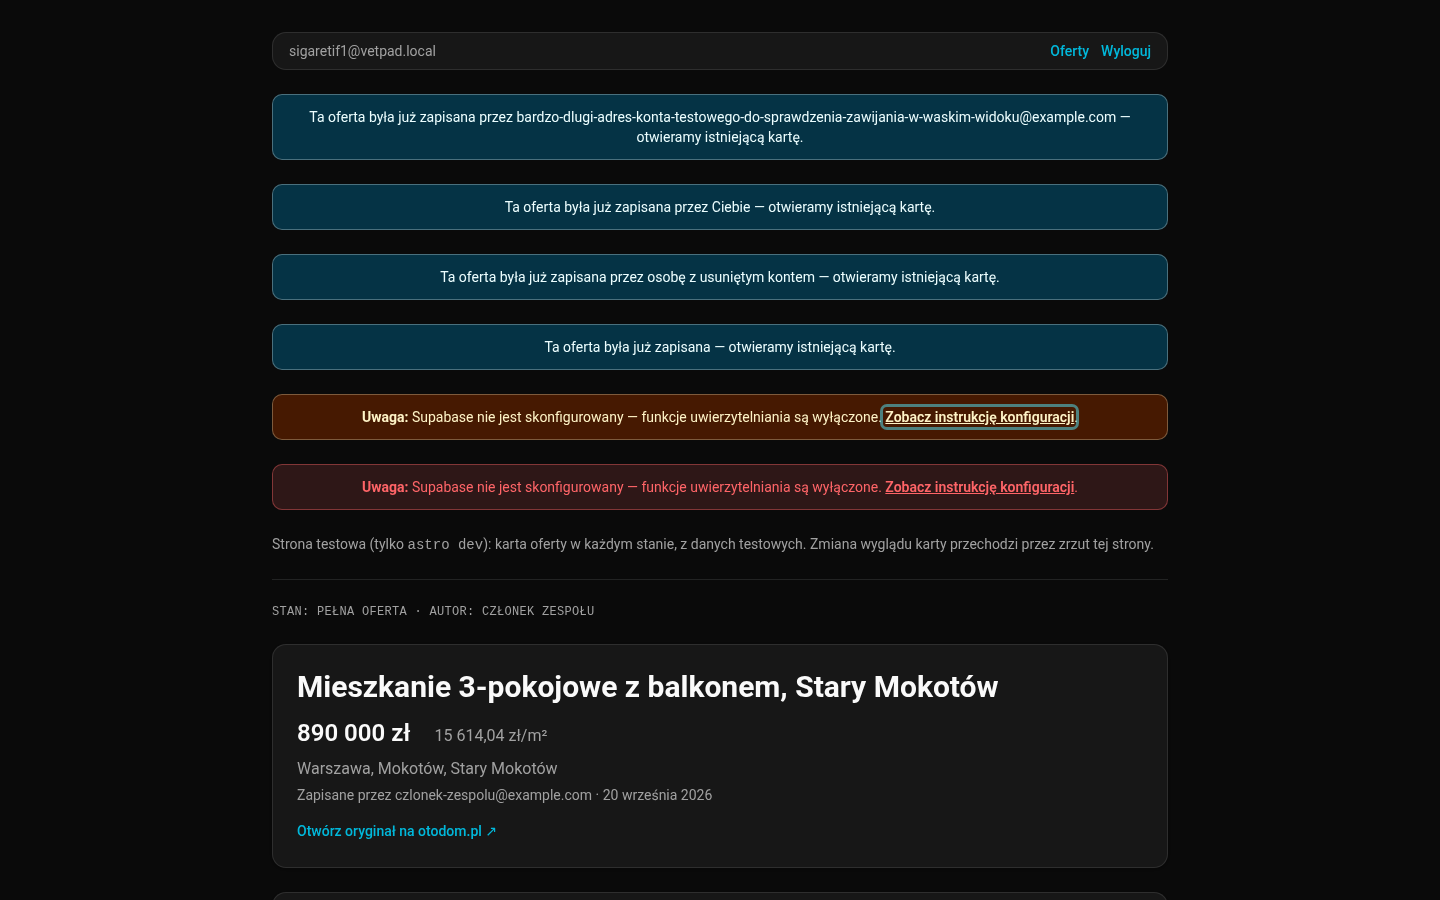
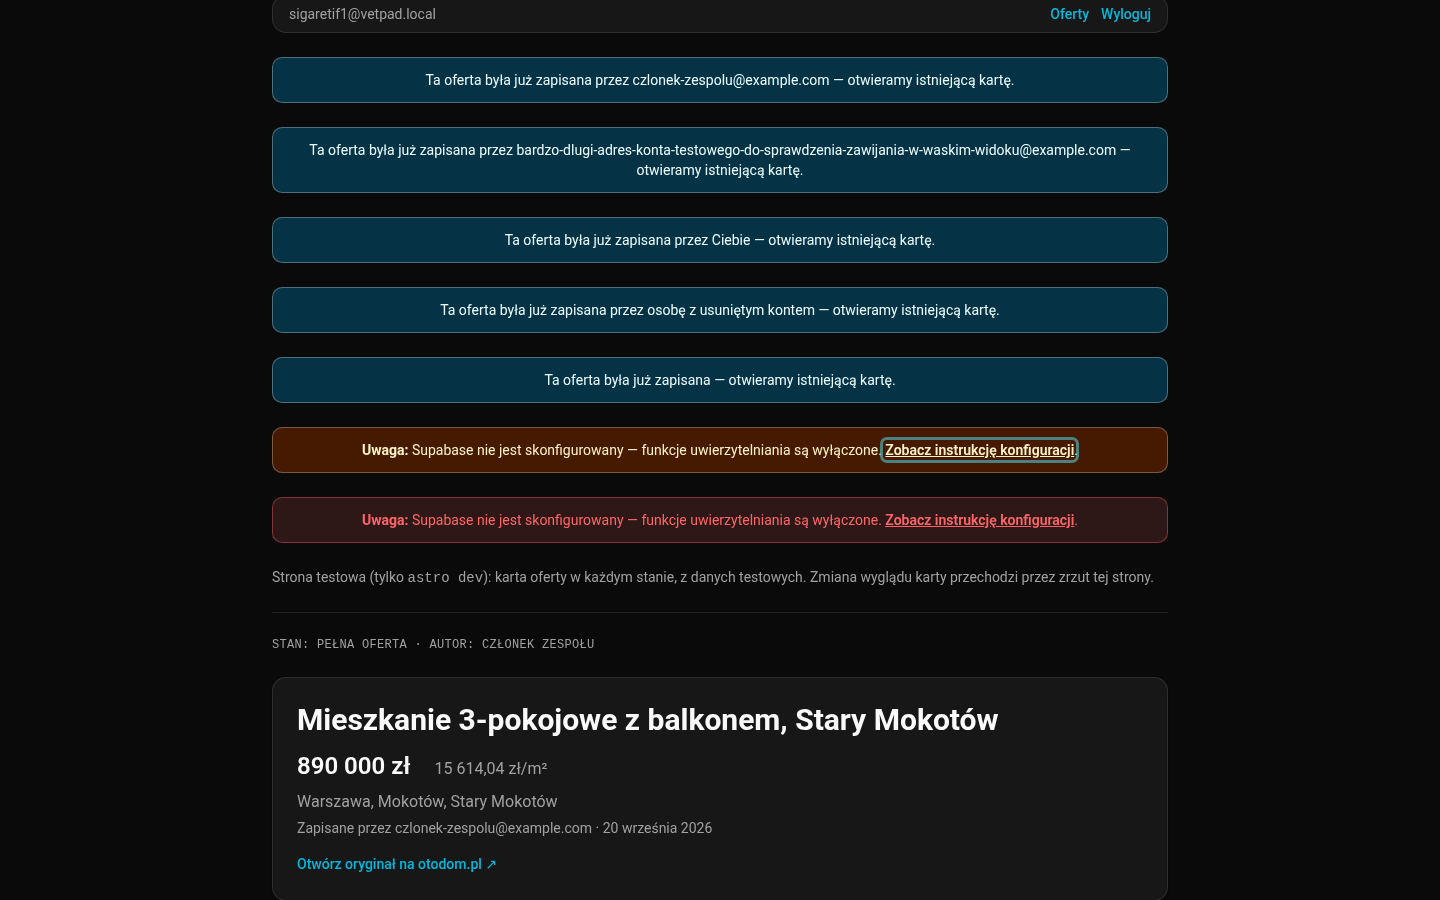
Extract saverName to shared utility and eliminate duplication

Changed region(s): [[0.1875, 0.0, 0.8125, 0.6844], [0.1875, 0.7467, 0.6875, 0.9644]]

diff --git a/src/lib/members.ts b/src/lib/members.ts
@@ -17,6 +17,10 @@ export type Saver = { kind: "self" } | { kind: "member"; email: string } | { kin
 /**
  * Who saved the offer, as the viewer should read it. `createdBy` comes from the offer row,
  * never from the URL. Never throws: any failure is `unknown`, so the card keeps rendering.
+ *
+ * One author, one query. A view naming many authors (S-05's notes) reads them in one
+ * `.in("id", ids)` instead of calling this per row: `offers.created_by` references auth.users,
+ * not `members`, so PostgREST cannot embed the name in the offer or note query.
  */
 export async function resolveSaver(
   supabase: SupabaseClient | null,
@@ -33,5 +37,26 @@ export async function resolveSaver(
     return typeof email === "string" && email.trim() !== "" ? { kind: "member", email } : { kind: "unknown" };
   } catch {
     return { kind: "unknown" };
+  }
+}
+
+/**
+ * Who to name after „przez", in the accusative the notice and the card's author line both use,
+ * or `null` when the author could not be established — `unknown` names nobody.
+ */
+export function saverName(saver: Saver): string | null {
+  switch (saver.kind) {
+    case "member":
+      return saver.email;
+    case "self":
+      return "Ciebie";
+    case "deleted":
+      return "osobę z usuniętym kontem";
+    case "unknown":
+      return null;
+    default: {
+      const unhandled: never = saver;
+      return unhandled;
+    }
   }
 }

diff --git a/src/lib/otodom/labels.ts b/src/lib/otodom/labels.ts
@@ -157,12 +157,6 @@ export const featureLabel = (token: string): string => translate(FEATURE, token)
 const NUMBER = new Intl.NumberFormat("pl-PL", { maximumFractionDigits: 2 });
 const INTEGER = new Intl.NumberFormat("pl-PL", { maximumFractionDigits: 0, useGrouping: false });
 const DATE = new Intl.DateTimeFormat("pl-PL", { day: "numeric", month: "long", year: "numeric", timeZone: "UTC" });
-const TIMESTAMP = new Intl.DateTimeFormat("pl-PL", {
-  day: "numeric",
-  month: "long",
-  year: "numeric",
-  timeZone: "Europe/Warsaw",
-});
 
 export function formatNumber(value: number): string {
   return NUMBER.format(value);
@@ -199,14 +193,4 @@ export function formatArea(value: number): string {
 export function formatDate(value: string): string {
   const parsed = new Date(`${value.slice(0, 10)}T00:00:00Z`);
   return Number.isNaN(parsed.getTime()) ? value : DATE.format(parsed);
-}
-
-/**
- * A `timestamptz` column → „20 września 2026", the day as the team sees it in Poland (not in
- * UTC, which would show the previous day for anything saved just after midnight). An
- * unparseable value literally.
- */
-export function formatTimestamp(value: string): string {
-  const parsed = new Date(value);
-  return Number.isNaN(parsed.getTime()) ? value : TIMESTAMP.format(parsed);
 }

diff --git a/src/lib/format.ts b/src/lib/format.ts
@@ -1,0 +1,19 @@
+// Formatting for the app's own columns (created_at and, later, note and archive dates), as
+// opposed to `@/lib/otodom/labels`, which formats what the listing portal stated.
+
+const TIMESTAMP = new Intl.DateTimeFormat("pl-PL", {
+  day: "numeric",
+  month: "long",
+  year: "numeric",
+  timeZone: "Europe/Warsaw",
+});
+
+/**
+ * A `timestamptz` column → „20 września 2026", the day as the team sees it in Poland (not in
+ * UTC, which would show the previous day for anything saved just after midnight). An
+ * unparseable value literally.
+ */
+export function formatTimestamp(value: string): string {
+  const parsed = new Date(value);
+  return Number.isNaN(parsed.getTime()) ? value : TIMESTAMP.format(parsed);
+}

diff --git a/context/changes/duplicate-listing-notice/reviews/impl-review.md b/context/changes/duplicate-listing-notice/reviews/impl-review.md
@@ -1,0 +1,103 @@
+<!-- IMPL-REVIEW-REPORT -->
+# Implementation Review: Komunikat o duplikacie z autorem zapisu
+
+- **Plan**: context/changes/duplicate-listing-notice/plan.md
+- **Scope**: Full plan
+- **Reviewed phases**: 1, 2, 3
+- **Date**: 2026-09-26
+- **Verdict**: APPROVED
+- **Findings**: 0 critical, 1 warning, 6 observations
+
+Faza 3 przejrzana w całości; jej jedyny otwarty punkt (3.6, sprawdzenie na produkcji) da się wykonać dopiero po wdrożeniu Workera. Świadome odstępstwo zatwierdzone przez użytkownika w trakcie implementacji: „osoba z usuniętym kontem” zamiast „konto usunięte” (PRD i `lessons.md` poprawione razem z UI) — nie jest traktowane jako dryf.
+
+## Verdicts
+
+| Dimension | Verdict |
+|-----------|---------|
+| Plan Adherence | PASS |
+| Scope Discipline | PASS |
+| Safety & Quality | PASS |
+| Architecture | PASS |
+| Pattern Consistency | WARNING |
+| Success Criteria | PASS |
+
+## Findings
+
+### F1 — Przełącznik `savedBy` zduplikowany w banerze i karcie
+
+- **Severity**: ⚠ WARNING
+- **Impact**: 🏃 LOW — quick decision; fix is obvious and narrowly scoped
+- **Dimension**: Pattern Consistency
+- **Location**: src/components/offers/DuplicateNotice.astro:18, src/components/offers/OfferCard.astro:23
+- **Detail**: Dwa identyczne `switch` po `saver.kind`, łącznie z tekstem z PRD („osobę z usuniętym kontem”) i regułą „`unknown` nikogo nie nazywa”. CLAUDE.md każe S-05 i S-10 korzystać z `src/lib/members.ts`, więc następny slice skopiuje przełącznik trzeci raz, a zmiana brzmienia (jak ta dzisiejsza) musi trafić w każdą kopię. Repo ma wzorzec „jedno miejsce na etykietę” (`AuditStatusBadge.astro`).
+- **Fix**: Wyeksportować `saverName(saver: Saver): string | null` (z wyczerpującym `never`) z `src/lib/members.ts` i użyć go w obu komponentach.
+- **Decision**: FIXED — `saverName` w `src/lib/members.ts`, oba komponenty go używają
+
+### F2 — Wyzwalacz e-maila: brak warunku `when` i brak upsertu w gałęzi UPDATE
+
+- **Severity**: 💡 OBSERVATION
+- **Impact**: 🔎 MEDIUM — real tradeoff; pause to reason through it
+- **Dimension**: Safety & Quality
+- **Location**: supabase/migrations/20260926185936_create_members.sql:44, :60
+- **Detail**: `after update of email` odpala się przy każdym UPDATE, który wymienia `email` w SET, także bez zmiany wartości (zbędny zapis). Gałąź UPDATE robi zwykły `update`, więc brakujący wiersz `members` nie odrodzi się przy zmianie e-maila i członek zostanie `unknown` na stałe. Oba przypadki są dziś nieszkodliwe (uzupełnienie + wyzwalacz insert pokrywają każde znane konto). Migracja jest już na hostowanym projekcie, więc poprawka to nowa migracja, nie edycja tej.
+- **Fix A ⭐ Recommended**: Odłożyć — zanotować w follow-upach i dołączyć do najbliższej migracji (np. S-05 albo osobnej zmiany z `revoke execute` na `offers_freeze_created_by`).
+  - Strength: Żadnej dodatkowej migracji ani `db push` teraz; oba przypadki nie mają dziś realnego skutku.
+  - Tradeoff: Znana drobna wada zostaje w schemacie do następnej migracji.
+  - Confidence: HIGH — uzupełnienie i wyzwalacz insert pokrywają każde konto; zweryfikowane w fazie 1.
+  - Blind spot: Nie sprawdzono, czy Supabase Auth kiedykolwiek usuwa i odtwarza konto z tym samym id.
+- **Fix B**: Nowa migracja teraz: `create or replace function` z upsertem w obu gałęziach + odtworzenie wyzwalacza z `when (old.email is distinct from new.email)`.
+  - Strength: Schemat od razu bez znanych wad, zanim S-05/S-10 zaczną z niego korzystać.
+  - Tradeoff: Druga migracja w tym slice'ie i kolejny `db push` za zgodą przed git-land.
+  - Confidence: HIGH — mała, idempotentna zmiana.
+  - Blind spot: None significant.
+- **Decision**: FIXED (Fix B) — migracja `20260926194251_members_sync_upsert_on_email_change.sql`, wypchnięta na hostowany projekt za zgodą
+
+### F3 — Strażnik `saver === null` pokazałby „nie znaleziono” z kodem 200
+
+- **Severity**: 💡 OBSERVATION
+- **Impact**: 🏃 LOW — quick decision; fix is obvious and narrowly scoped
+- **Dimension**: Safety & Quality
+- **Location**: src/pages/offers/[id].astro:43, :54
+- **Detail**: `saver` jest `null`, gdy nie ma oferty, a render sprawdza `offer === null || saver === null`. Strażnik służy tylko zawężeniu typu; gdyby `saver` był kiedyś `null` przy istniejącej ofercie, strona pokazałaby `OfferNotFound` ze statusem 200. Dziś niemożliwe (`resolveSaver` zawsze zwraca wartość).
+- **Fix**: `const saver: Saver = offer ? await resolveSaver(…) : { kind: "unknown" }` i render warunkowany wyłącznie `offer === null`.
+- **Decision**: FIXED — `saver` domyślnie `{ kind: "unknown" }`, render zależny tylko od `offer`
+
+### F4 — Kitchen sink nie ma banera `member` ze zwykłym adresem
+
+- **Severity**: 💡 OBSERVATION
+- **Impact**: 🏃 LOW — quick decision; fix is obvious and narrowly scoped
+- **Dimension**: Plan Adherence
+- **Location**: src/pages/dev/offer-card.astro:55
+- **Detail**: Baner `member` używa `longEmailSaver` (test zawijania), a `memberSaver` nie występuje w żadnym banerze. Macierz 7 stanów nazywa „default” wariantem `member` — typowego banera z krótkim adresem nie widać na zrzucie.
+- **Fix**: Dodać piąty `DuplicateNotice` z `memberSaver` (długi adres zostaje jako test zawijania) i powtórzyć zrzuty `gate` przed commitem.
+- **Decision**: FIXED — piąty `DuplicateNotice` z `memberSaver`; zrzuty `gate` powtórzone
+
+### F5 — Dwa kolejne zapytania na widok karty; uwaga dla S-05
+
+- **Severity**: 💡 OBSERVATION
+- **Impact**: 🏃 LOW — quick decision; fix is obvious and narrowly scoped
+- **Dimension**: Architecture
+- **Location**: src/pages/offers/[id].astro:43
+- **Detail**: Oferta, potem `members` (pomijane dla `self`/`deleted`). Osadzony select jest niemożliwy, bo `offers.created_by` wskazuje na `auth.users`, nie na `members`. Przy trzech członkach bez znaczenia; S-05 doda autora do każdej notatki i musi je pobierać jednym `.in("id", ids)`, nie zapytaniem na notatkę.
+- **Fix**: Bez zmian w kodzie; dopisać uwagę o batchowaniu przy `resolveSaver` w `src/lib/members.ts` (albo zapisać jako lekcję).
+- **Decision**: FIXED — uwaga o batchowaniu w komentarzu `resolveSaver`
+
+### F6 — `formatTimestamp` w module ingestii otodom
+
+- **Severity**: 💡 OBSERVATION
+- **Impact**: 🏃 LOW — quick decision; fix is obvious and narrowly scoped
+- **Dimension**: Architecture
+- **Location**: src/lib/otodom/labels.ts:203
+- **Detail**: Formatuje kolumnę aplikacji (`created_at`), nie dane portalu, a leży w `src/lib/otodom/`. Plan tak to umieścił; S-05/S-10 będą importować daty notatek i archiwizacji z `@/lib/otodom/labels`.
+- **Fix**: Zostawić; przenieść do ogólnego modułu formatowania, gdy S-05 będzie go potrzebować.
+- **Decision**: FIXED (przeniesione teraz) — `formatTimestamp` w nowym `src/lib/format.ts`; `labels.ts` wrócił do stanu sprzed zmiany
+
+### F7 — Stare brzmienie „konto usunięte” w dokumentach planu i starej migracji
+
+- **Severity**: 💡 OBSERVATION
+- **Impact**: 🏃 LOW — quick decision; fix is obvious and narrowly scoped
+- **Dimension**: Plan Adherence
+- **Location**: context/changes/duplicate-listing-notice/plan.md:11, plan-brief.md:15, supabase/migrations/20260923153747_offers_keep_after_author_deleted.sql:8
+- **Detail**: Implementacja, PRD, `lessons.md` i CLAUDE.md mówią „osoba z usuniętym kontem”; plan, brief i komentarz w zastosowanej już migracji nadal „konto usunięte”. Bloki faz planu są tylko do odczytu, a zastosowanej migracji się nie edytuje.
+- **Fix**: Dopisać w `change.md` (## Notes) jedną linię o zatwierdzonej zmianie brzmienia; migrację zostawić jako historię.
+- **Decision**: FIXED — adnotacja w `change.md` (## Notes); migracja zostawiona jako historia

diff --git a/context/changes/duplicate-listing-notice/change.md b/context/changes/duplicate-listing-notice/change.md
@@ -1,7 +1,7 @@
 ---
 change_id: duplicate-listing-notice
 title: Duplicate listing notice — paste a saved URL and land on the existing card
-status: implemented
+status: impl_reviewed
 created: 2026-09-26
 updated: 2026-09-26
 archived_at: null
@@ -14,3 +14,5 @@ Roadmap slice S-07 (`context/foundation/roadmap.md`), PRD ref FR-005, prerequisi
 Outcome: user can paste a URL that is already saved — with or without tracking parameters — and lands on the existing card with a notice naming the member who saved it, instead of creating a second entry.
 
 Open unknown from the roadmap: FR-005's offer of a manual re-fetch on the duplicate notice needs the re-fetch from S-09; whichever lands second connects them (Owner: team, non-blocking).
+
+Wording change approved by the user during Phase 2 (2026-09-26): a deleted author reads „osoba z usuniętym kontem” („…zapisana przez osobę z usuniętym kontem…”, „Zapisane przez osobę z usuniętym kontem · <data>”), not „konto usunięte”. The PRD, `lessons.md`, CLAUDE.md and the code carry the new wording; `plan.md`, `plan-brief.md` and the comment in the already-applied `20260923153747_offers_keep_after_author_deleted.sql` keep the old one as history.
